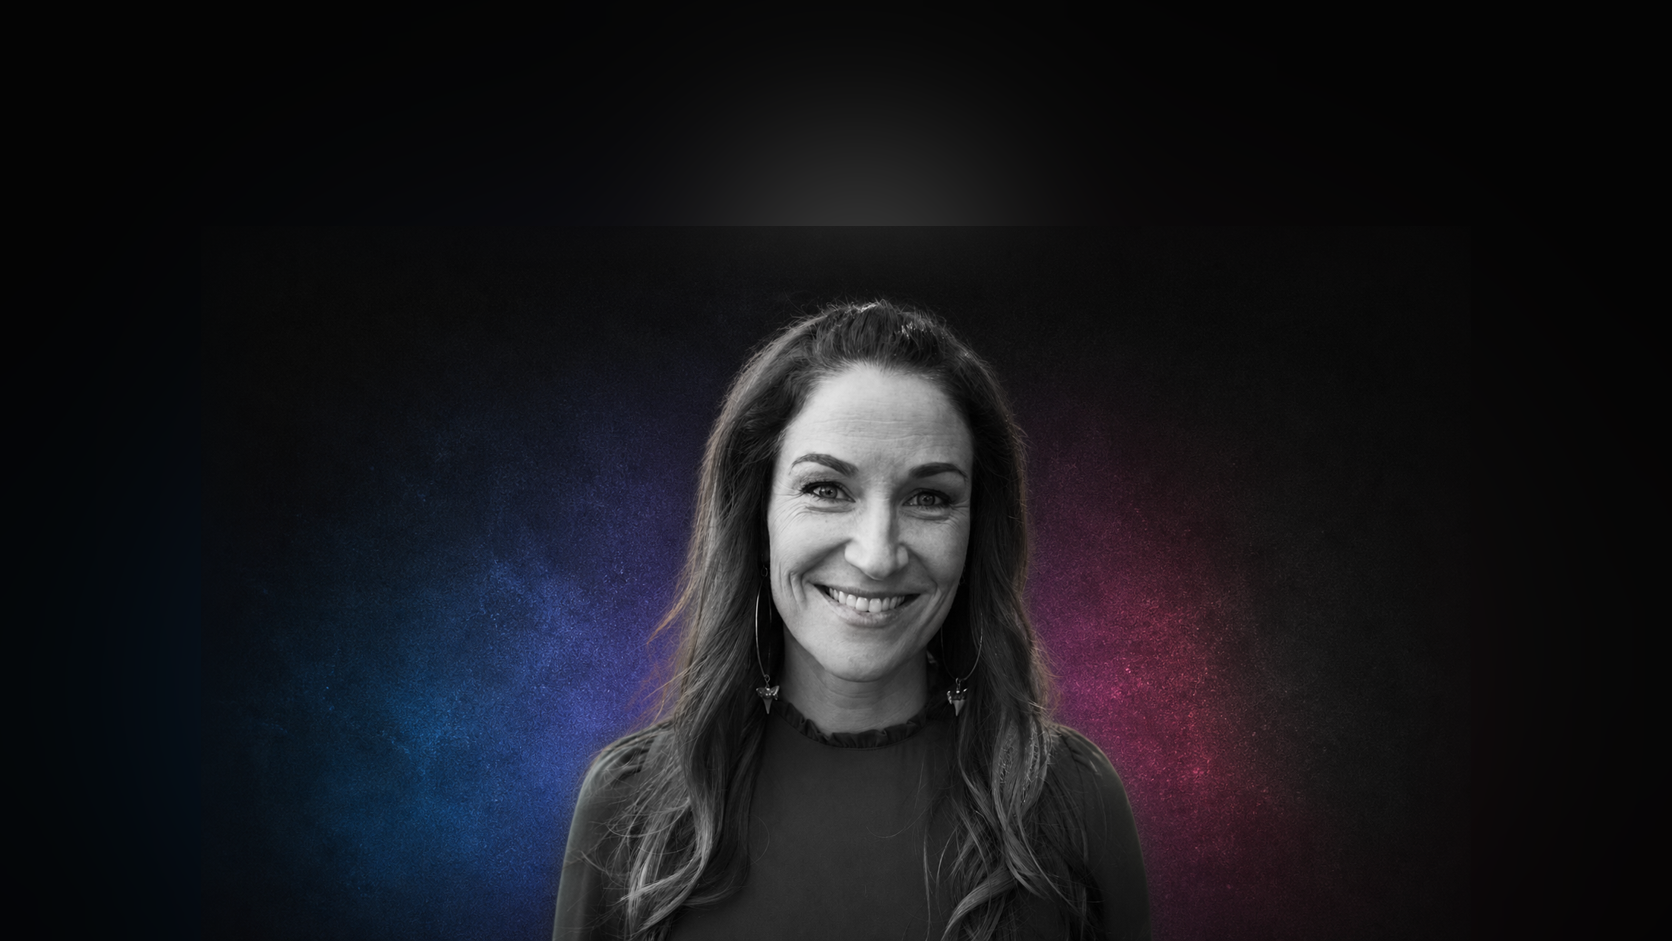
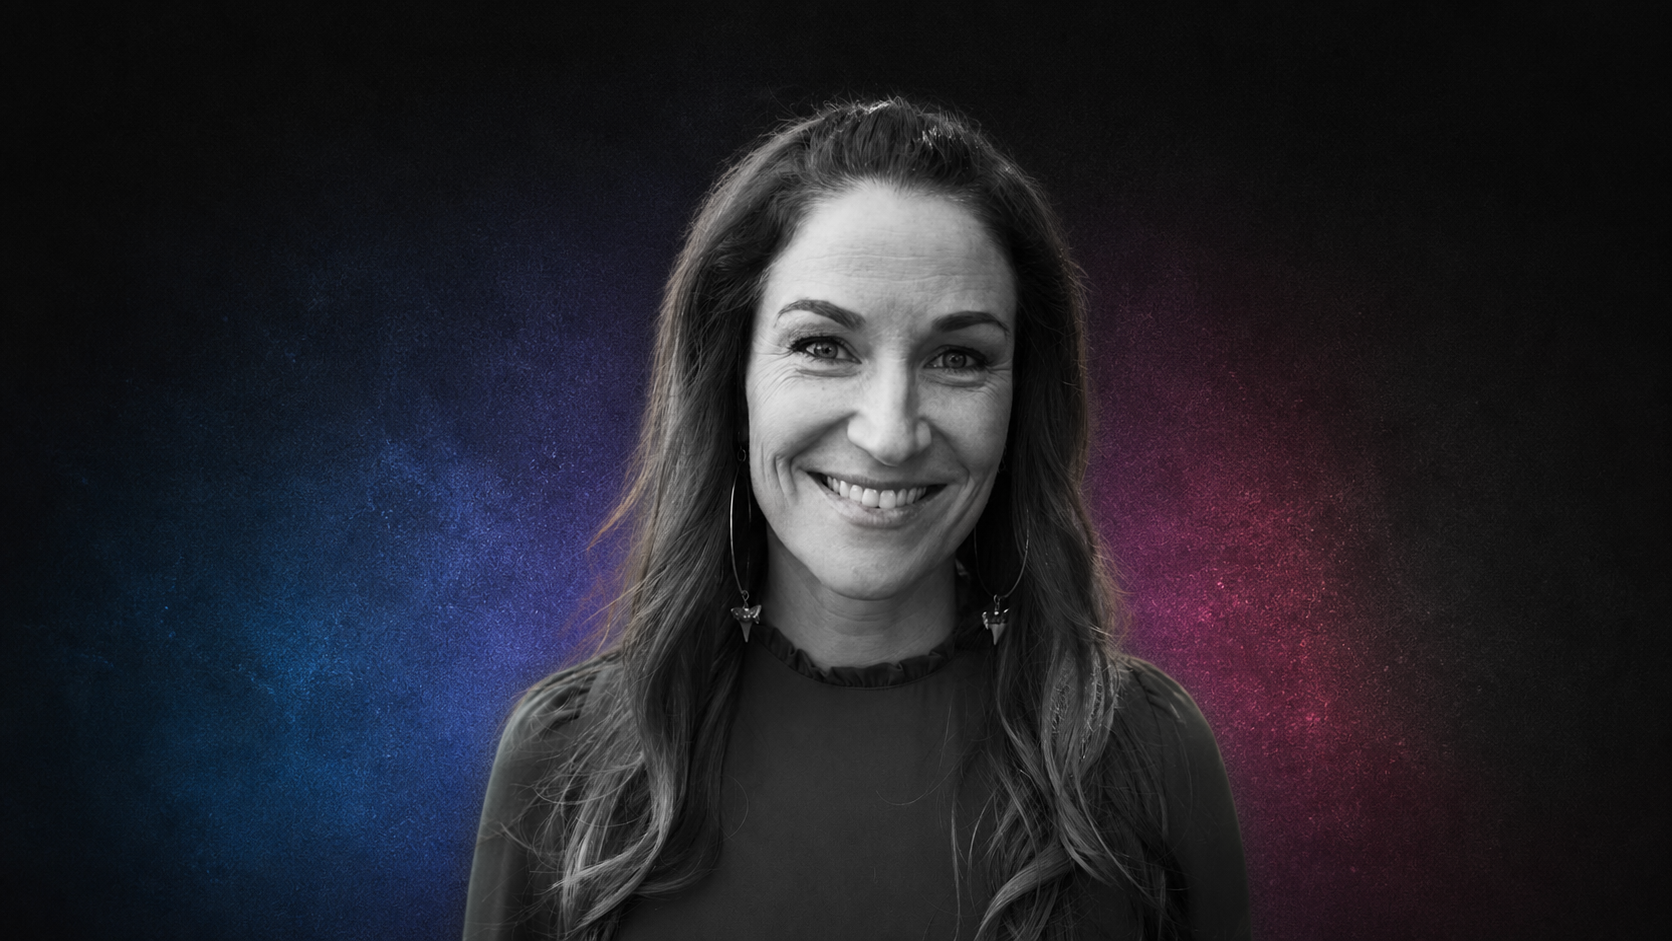
Meagan band: CSS zoom-out (78% img, feathered mask, matching glow bg); clean asset restored; worldwide h3 spaces; Recording Languages label; Zoom list link; eyebrow jump link

diff --git a/hero-lab.html b/hero-lab.html
@@ -2016,8 +2016,8 @@ if(gh){document.addEventListener('DOMContentLoaded',function(){
 });}
 if(p.get('intl')==='8'){document.addEventListener('DOMContentLoaded',function(){
   var rail=document.querySelector('.nh-rail'); if(!rail)return;
-  var eb=document.createElement('div'); eb.className='ben-eb';
-  eb.textContent='Designed for an International Audience';
+  var eb=document.createElement('a'); eb.className='ben-eb'; eb.href='#global-band';
+  eb.innerHTML='Designed for an International Audience <span class="ben-eb-a">\u2192</span>';
   var G='<svg viewBox="0 0 24 24"><g fill="none" stroke="#3ED8F0" stroke-width="1.6" stroke-linecap="round">'+
     '<circle cx="12" cy="12" r="8.6"/><path d="M3.4 12h17.2"/>'+
     '<path d="M12 3.4c2.3 2.4 3.5 5.4 3.5 8.6s-1.2 6.2-3.5 8.6c-2.3-2.4-3.5-5.4-3.5-8.6S9.7 5.8 12 3.4z"/></g></svg>';
@@ -2892,6 +2892,21 @@ html{scroll-behavior:smooth}
 .h3x .i5-icons .i5-mid i{display:none}
 .h3x .i5-ic{flex-basis:32px;width:32px;height:32px}.h3x .i5-ic svg{width:19px;height:19px}
 .h3x .i5-icons .i5-mid b{font-size:13.5px;color:#aab2c4}
+.intl8 a.ben-eb{display:block;text-decoration:none;cursor:pointer}
+.intl8 a.ben-eb:hover{color:#7DE9FF}
+.ben-eb-a{display:inline-block;margin-left:6px;transition:transform .2s ease}
+.intl8 a.ben-eb:hover .ben-eb-a{transform:translateX(4px)}
+.zlink{color:#3ED8F0;text-decoration:none;border-bottom:1px solid rgba(62,216,240,.4)}
+.zlink:hover{color:#7DE9FF}
+/* Meagan band: CSS zoom-out — image at 78% over a matching glow bg, feathered mask */
+#instructor-meagan .band-media{background:
+  radial-gradient(46% 64% at 10% 64%,rgba(38,78,180,.34),transparent 72%),
+  radial-gradient(46% 64% at 90% 56%,rgba(168,38,108,.30),transparent 72%),
+  #0A0A12;display:flex;align-items:flex-end;justify-content:center}
+#instructor-meagan .band-media img{width:78%;display:block;
+  -webkit-mask-image:radial-gradient(130% 112% at 50% 100%,#000 46%,transparent 92%);
+  mask-image:radial-gradient(130% 112% at 50% 100%,#000 46%,transparent 92%)}
+
 .gw{font-style:normal;background:linear-gradient(92deg,#22D3EE,#4F7CFF 45%,#A78BFA);
   -webkit-background-clip:text;background-clip:text;color:transparent}
 </style></head>
@@ -3226,17 +3241,17 @@ html{scroll-behavior:smooth}
     <div id="global" class="glob">
         <div class="gcell">
           <div class="gring"><svg viewBox="0 0 48 48" aria-hidden="true"><rect x="4" y="7" width="40" height="29" rx="3.5"/><path d="M24 36v5M17 41h14"/><text class="icon-cc" x="24" y="26.5" text-anchor="middle">CC</text></svg></div>
-          <h3>Live on Zoom with<br class="tab-br">Real-Time Captions</h3>
-          <p>Follow along live with translated captions in 35+ languages, right in Zoom.</p>
+          <h3>Live on Zoom with <br class="tab-br">Real-Time Captions</h3>
+          <p>Follow along live with translated captions in 35+ languages, right in Zoom. <a class="zlink" href="https://support.zoom.com/hc/en/article?id=zm_kb&amp;sysparm_article=KB0060844" target="_blank" rel="noopener noreferrer">See the full list</a></p>
         </div>
         <div class="gcell">
           <div class="gring"><svg viewBox="0 0 48 48" aria-hidden="true"><path d="M13 12A17.2 17.2 0 1 1 8 27.2" fill="none"/><path d="M13.8 5.2l-1 7 7 1" fill="none"/><path d="M21 17.8l9.8 6.2-9.8 6.2z" fill="none"/></svg></div>
-          <h3>180-Day<br class="tab-br">Recording Access</h3>
+          <h3>180-Day <br class="tab-br">Recording Access</h3>
           <p>Replay every session on your own schedule after the live event ends.</p>
         </div>
         <div class="gcell">
           <div class="gring"><svg viewBox="0 0 48 48" aria-hidden="true"><rect x="3" y="5" width="33" height="25" rx="3.5"/><path d="M19.5 30v5M13.5 35h12"/><circle cx="35" cy="33" r="10.5"/><path d="M24.5 33h21M35 22.5c3 2.8 4.6 6.3 4.6 10.5S38 40.7 35 43.5M35 22.5c-3 2.8-4.6 6.3-4.6 10.5S32 40.7 35 43.5"/></svg></div>
-          <h3>Professionally<br class="tab-br">Dubbed Recordings</h3>
+          <h3>Professionally <br class="tab-br">Dubbed Recordings</h3>
           <p>Recordings dubbed in your choice of seven languages, picked at registration.</p>
         </div>
     </div>
@@ -3245,7 +3260,7 @@ html{scroll-behavior:smooth}
         <span class="abadge" style="--ring:rgba(201,143,214,.46)">
           <svg viewBox="0 0 24 24" stroke="#c98fd6"><path d="M3.6 6.6A2.6 2.6 0 0 1 6.2 4h11.6a2.6 2.6 0 0 1 2.6 2.6v7a2.6 2.6 0 0 1-2.6 2.6H10l-4.4 3.6v-3.6h-1A2.6 2.6 0 0 1 3.6 13.6z"/><circle cx="8.4" cy="10.2" r=".9" fill="#c98fd6" stroke="none"/><circle cx="12" cy="10.2" r=".9" fill="#c98fd6" stroke="none"/><circle cx="15.6" cy="10.2" r=".9" fill="#c98fd6" stroke="none"/></svg>
         </span>
-        <div class="albl">Language<br>Access</div>
+        <div class="albl">Recording<br>Languages</div>
         <div class="alist">
           <span>English</span><span>Spanish</span><span>French</span><span>German</span><span>Japanese</span><span>Portuguese</span><span>Italian</span>
         </div>
